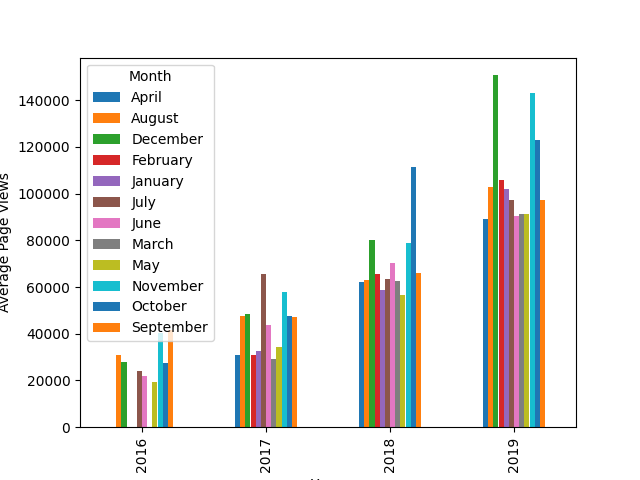
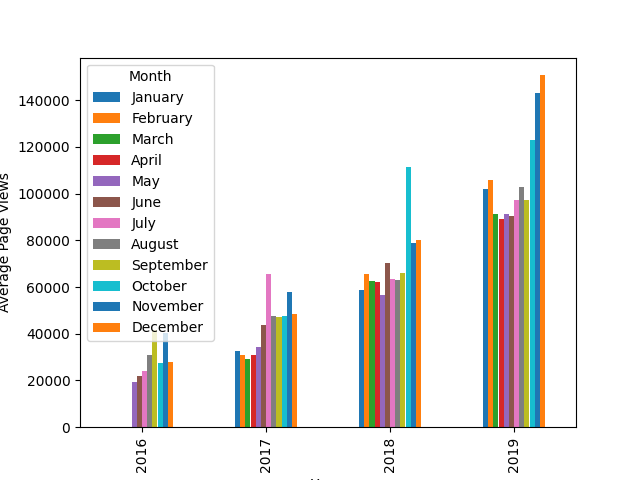
passed BarPlotTestCase

diff --git a/Data Analysis with Python/page-view-time-series-visualizer/time_series_visualizer.py b/Data Analysis with Python/page-view-time-series-visualizer/time_series_visualizer.py
@@ -2,6 +2,7 @@ import matplotlib.pyplot as plt
 import pandas as pd
 import seaborn as sns
 from pandas.plotting import register_matplotlib_converters
+from pandas.api.types import CategoricalDtype
 register_matplotlib_converters()
 
 # Import data (Make sure to parse dates. Consider setting index column to 'date'.)
@@ -10,6 +11,10 @@ df = pd.read_csv("fcc-forum-pageviews.csv", index_col='date', parse_dates=True)
 # Clean data
 df = df[(df['value']>=df['value'].quantile(0.025))&(df['value']<=df['value'].quantile(0.975))]
 
+#Defined custom calendar ordering of months, instead of alphabetical
+month_order = ['January', 'February', 'March', 'April', 'May', 'June', 'July', 'August', 'September', 'October', 'November', 'December']
+df['Month']=df.index.month_name()
+df['Month']=df['Month'].astype(CategoricalDtype(categories=month_order, ordered=True))
 
 def draw_line_plot():
 	# Draw line plot
@@ -26,7 +31,7 @@ def draw_line_plot():
 def draw_bar_plot():
 	# Copy and modify data for monthly bar plot
 	#average daily views by month, grouped by year
-	df_bar = df.groupby([df.index.year,df.index.month_name()])['value'].mean().sort_values(['month'])
+	df_bar = df.groupby([df.index.year,'Month'])['value'].mean().sort_values()
 	#sort by month
 	# Draw bar plot
 	ax = df_bar.unstack().plot.bar()
@@ -48,9 +53,26 @@ def draw_box_plot():
 	df_box['month'] = [d.strftime('%b') for d in df_box.date]
 
 	# Draw box plots (using Seaborn)
+	fig, axes = plt.subplots(2, 1, figsize=(12, 10))
+	
+	
+	'''AI (Copilot preview) says
+# Year plot
+sns.boxplot(x='year', y='value', data=df_box, ax=axes[0])
+axes[0].set_title('Year-wise Box Plot (Trend)')
+axes[0].set_xlabel('Year')
+axes[0].set_ylabel('Value')
+
+# Month plot
+sns.boxplot(x='month', y='value', data=df_box, ax=axes[1], order=['Jan', 'Feb', 'Mar', 'Apr', 'May', 'Jun', 'Jul', 'Aug', 'Sep', 'Oct', 'Nov', 'Dec'])
+axes[1].set_title('Month-wise Box Plot (Seasonality)')
+axes[1].set_xlabel('Month')
+axes[1].set_ylabel('Value')
+	'''
+	#year plot
 
 
-
+	#month plot
 
 
 	# Save image and return fig (don't change this part)
